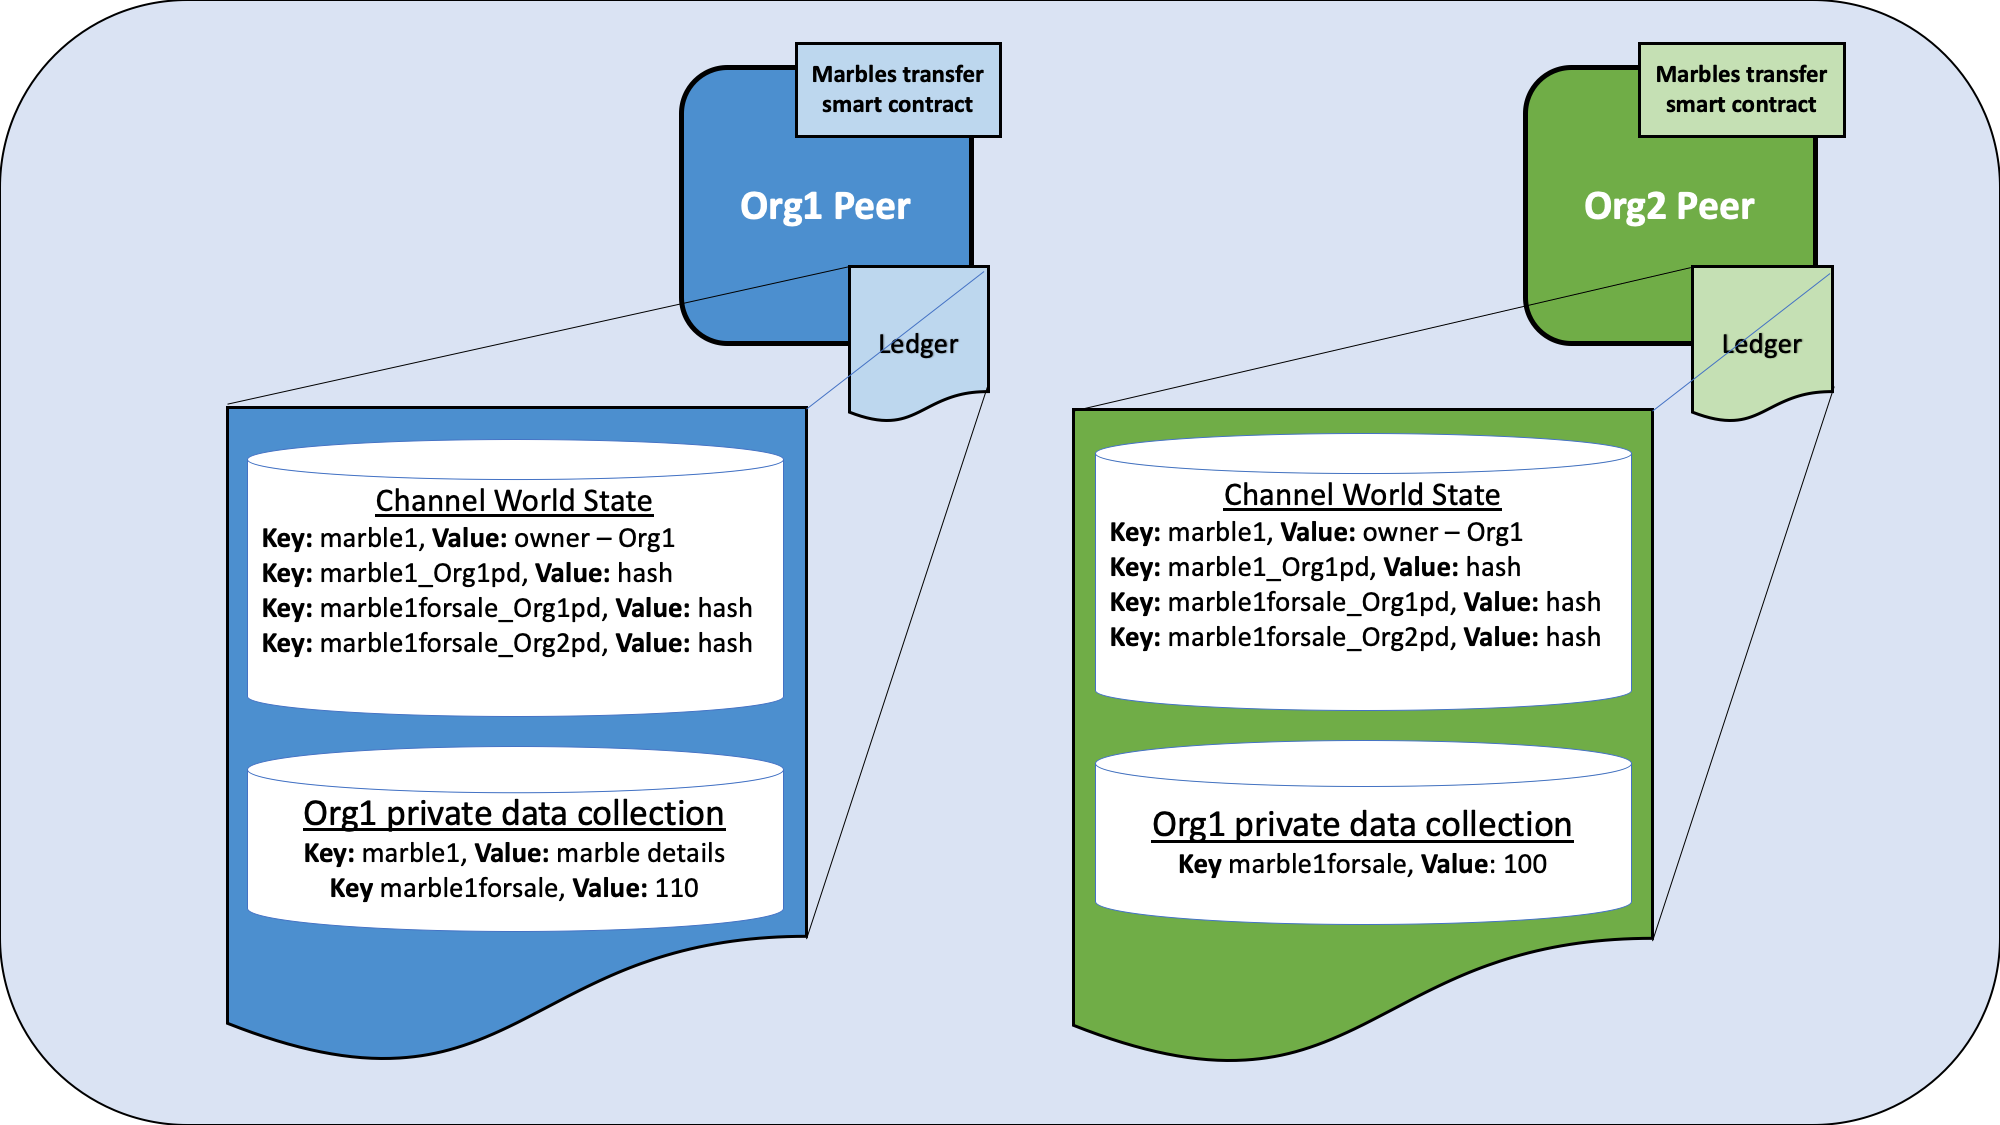
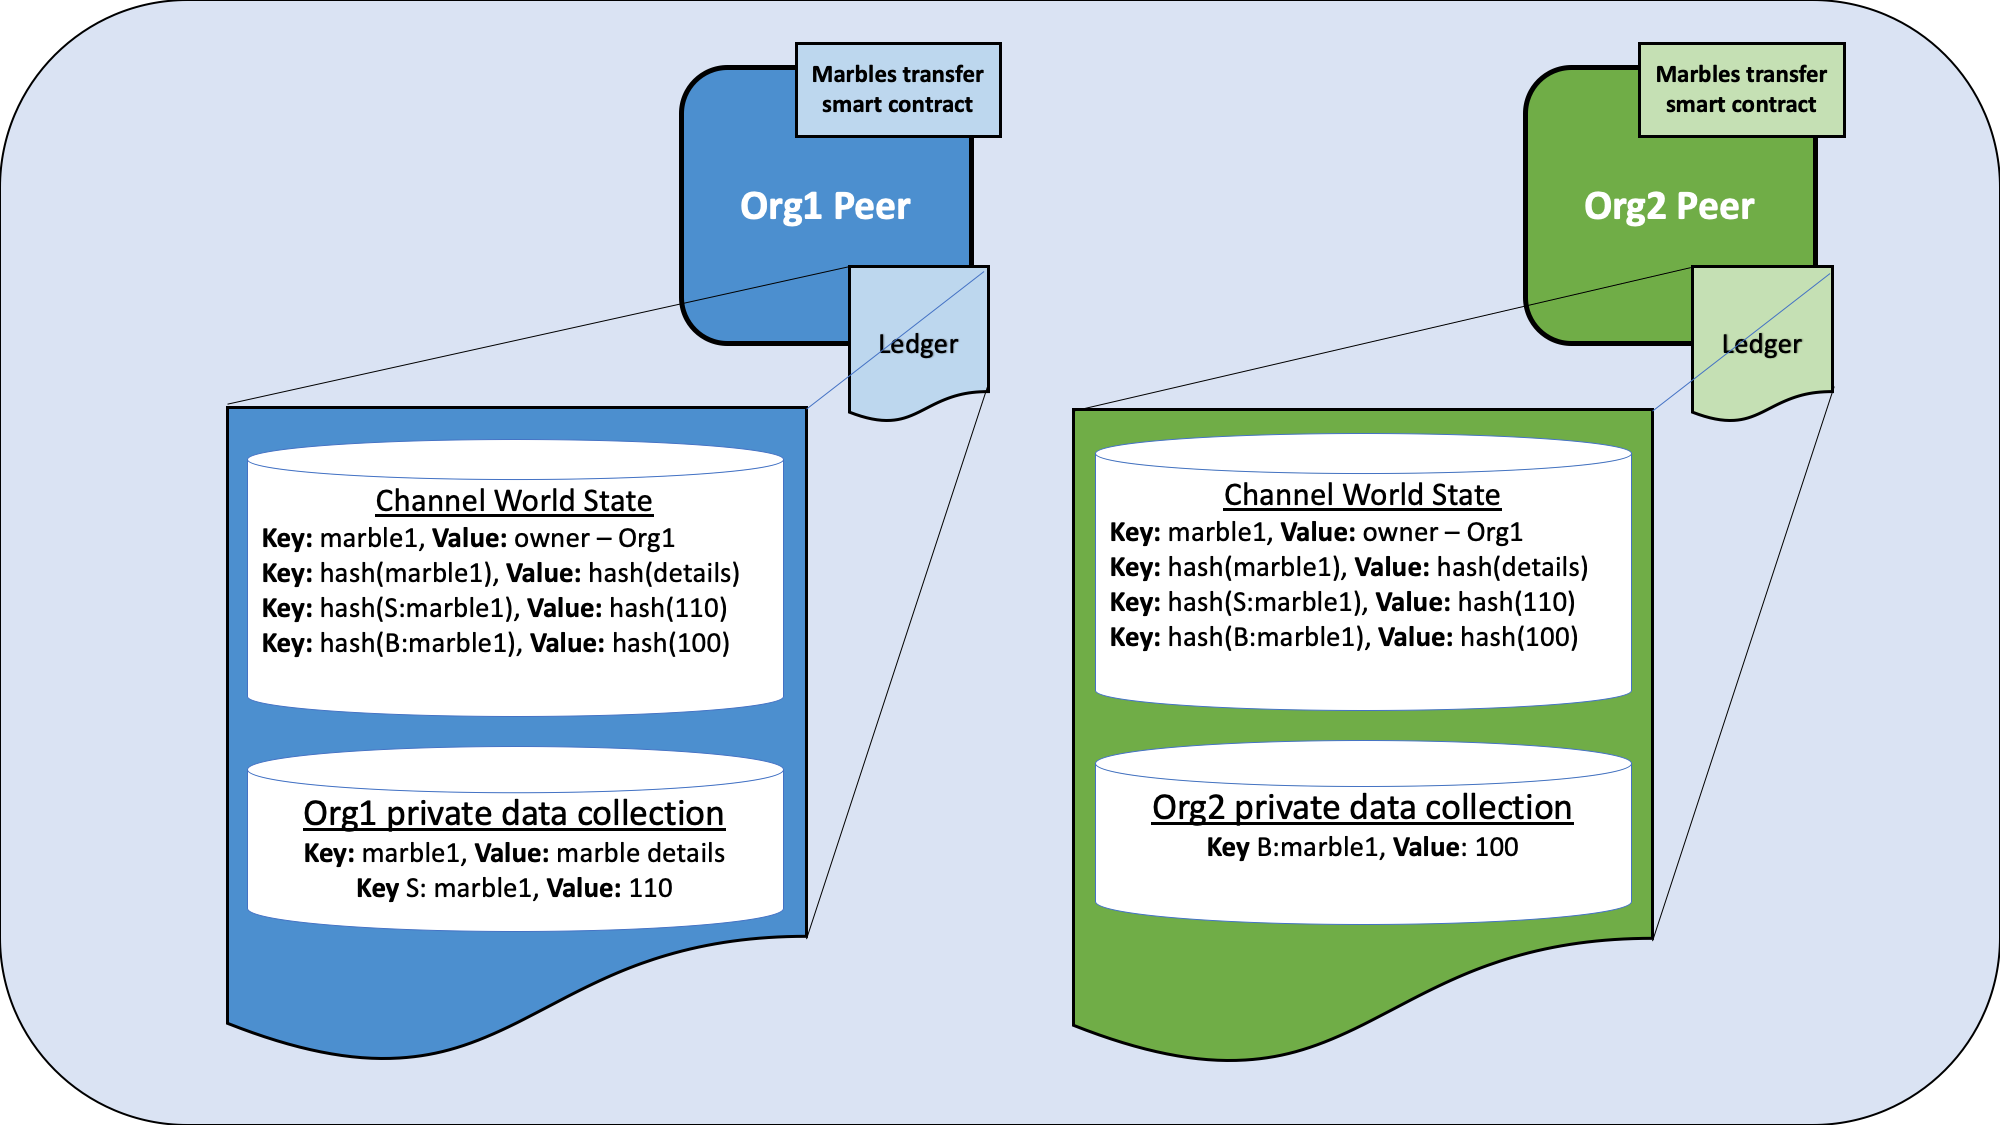
Update marbles transfer images

diff --git a/chaincode/marbles_transfer/README.md b/chaincode/marbles_transfer/README.md
@@ -215,7 +215,7 @@ We can now see that the marble is for sale:
 ```
 
   ![Org1 creates a Marble](images/transfer_marbles_1.png)  
-*Figure 1: When Org1 creates a marble that they own, the marble details are stored in the Org1 implicit data collection on the Org1 peer. The public ownership record is stored in the channel world state, and is stored on both the Org1 and Org2 peers. A hash of the marble details is also visible in the channel world state and is stored on the peers of both organizations.*
+*Figure 1: When Org1 creates a marble that they own, the marble details are stored in the Org1 implicit data collection on the Org1 peer. The public ownership record is stored in the channel world state, and is stored on both the Org1 and Org2 peers. A hash of the marble key and a hash the marble details are also visible in the channel world state and are stored on the peers of both organizations.*
 
 ### Operate from the Org2 terminal
 
@@ -243,7 +243,7 @@ To sell a marble, both the buyer and the seller must agree on a marble price. Ea
 
 ## Agree to sell as Org1
 
-Operate from the Org1 terminal. Org1 will agree to set the marble price as 110 dollars. The `trade_id` is used as salt to prevent a channel member that is not a buyer or a seller from guessing the price. This value needs to be passed out of band, through email or other communication, between the buyer and the seller.
+Operate from the Org1 terminal. Org1 will agree to set the marble price as 110 dollars. The `trade_id` is used as salt to prevent a channel member that is not a buyer or a seller from guessing the price. This value needs to be passed out of band, through email or other communication, between the buyer and the seller. The buyer and the seller can also add salt to the marble key to prevent other members of the channel from guessing which marble is for sale.
 ```
 export MARBLE_PRICE=$(echo -n "{\"marble_id\":\"marble1\",\"trade_id\":\"109f4b3c50d7b0df729d299bc6f8e9ef9066971f\",\"price\":110}" | base64)
 peer chaincode invoke -o localhost:7050 --ordererTLSHostnameOverride orderer.example.com --tls --cafile ${PWD}/organizations/ordererOrganizations/example.com/orderers/orderer.example.com/msp/tlscacerts/tlsca.example.com-cert.pem -C mychannel -n marbles_transfer -c '{"function":"AgreeToSell","Args":["marble1"]}' --transient "{\"marble_price\":\"$MARBLE_PRICE\"}"
@@ -267,7 +267,7 @@ peer chaincode query -o localhost:7050 --ordererTLSHostnameOverride orderer.exam
 ```
 
   ![Org1 and Org2 agree on transfer](images/transfer_marbles_2.png)  
-*Figure 2: After Org1 and Org2 agree to transfer the marble, the price agreed to by each organization is stored in their private data collections. A composite key of "MarbleforSale" is used to prevent a collision with the marble details and marble ownership record. The price that is agreed to is only stored on the peers of each organization. However, the hash of both agreements is stored in the channel world state on every peer joined to the channel.*  
+*Figure 2: After Org1 and Org2 agree to transfer the marble, the price agreed to by each organization is stored in their private data collections. A composite key for the seller and the buyer is used to prevent a collision with the marble details and marble ownership record. The price that is agreed to is only stored on the peers of each organization. However, the hash of both agreements is stored in the channel world state on every peer joined to the channel.*  
 
 ## Transfer the marble from to Org2
 
